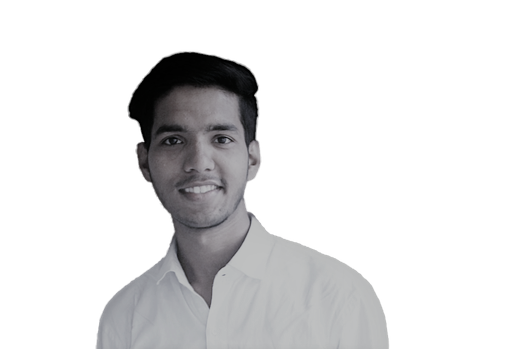
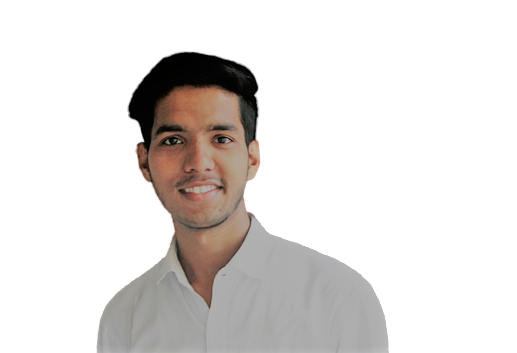
robin

diff --git a/index.html b/index.html
@@ -41,12 +41,14 @@
 </head>
 
 <body>
-	<div id="nav-wrapper">
+	<div id="nav-wrapper" >
 		<nav id="nav">
-		  <div class="nav left" id="leftt">
+		  <div class="nav left" id="leftt" style="position: relative;">
 			<span class="gradient skew"><h1 class="logo un-skew"><a href="index.html">Robin Singh</a></h1></span>
-			<!-- <button id="menu" class="btn-nav"><span class="fas fa-bars"></span></button> -->
+			<button id="menu" class="btn-nav" onclick="set()"><span class="fas fa-bars"></span></button>
+			
 		  </div>
+		  
 		  <div class="nav right" id="rightt">
 		
 			<a href="#fh5co-header" class="nav-link active"><span class="nav-link-span"><span class="u-nav">Home</span></span></a>
@@ -58,8 +60,16 @@
 			
 		</div>
 		</nav>
+		
 	</div>
-
+	<div id="navb" onclick="hide()">
+		<a href="">Home</a>
+		<a href="#fh5co-about">About</a>
+		<a href="#fh5co-resume">Resume</a>
+		<a href="#fh5co-skills">Skills</a>
+		<a href="#fh5co-blog">Projects</a>
+		<a href="#fh5co-started">Contact</a>
+	</div>
 
 
 	<div class="fh5co-loader" id="ripple"></div>
@@ -76,16 +86,7 @@
 				<div class="row">
 					
 					<div class="col-md-8 col-md-offset-2 text-center">
-						<!-- <div id="navb" style="border: 1px solid red">
-							<a href="">home</a>
-							<a href="#about">About</a>
-							<a href="#fh5co-blog">Projects</a>
-							<a href="#fh5co-started">Contact</a>
-							<a href="#fh5co-skills">Skills</a>
-							<a href="#educt">Education</a>
-							<a href="#fh5co-resume">Resume</a>
-							
-						</div> -->
+						
 
 					
 						<div class="display-t js-fullheight">
@@ -107,7 +108,7 @@
 									</p>
 								</div>
 								<div  class="profiler" >
-								<img style="width: 50%; height: 100%;" src="./Polish_20220911_153601291.png" alt=""></div>
+								<img style="width: 70%; height: 100%;" src="./20200312_121319_143-01_prev_ui.png" alt=""></div>
 
 								
 							</div>
@@ -292,7 +293,7 @@
 				<div class="row robin" >
 					<div class="col-md-4">
 						<div class="fh5co-blog animate-box">
-							<a href="#" class="blog-bg" style="background-image: url(SUGAR-Cosmetics-Logo.jpg);margin: auto;width: 90%;margin-top: -10vh;
+							<a href="https://stunning-biscochitos-96bb56.netlify.app/" target="_blank" class="blog-bg" style="background-image: url(SUGAR-Cosmetics-Logo.jpg);margin: auto;width: 90%;margin-top: -10vh;
 							height: 35vh; border: 1px solid black;background-repeat: no-repeat;
   background-position: center center;
   background-size: 100% 100%;" ></a>
@@ -313,7 +314,7 @@
 					</div>
 					<div class="col-md-4">
 						<div class="fh5co-blog animate-box">
-							<a href="#" class="blog-bg"
+							<a href="https://frolicking-moxie-feacd6.netlify.app/" target="_blank" class="blog-bg"
 								style="background-image: url(geekbuying-discount-code.png);background-repeat: no-repeat;
 								background-position: center center;margin: auto;
 								background-size: 100% 100%;width: 90%;margin-top: -10vh;object-fit: cover;
@@ -334,7 +335,7 @@
 					</div>
 					<div class="col-md-4">
 						<div class="fh5co-blog animate-box" >
-							<a href="#" class="blog-bg"
+							<a href="https://bufferr.netlify.app/" target="_blank" class="blog-bg"
 								style="background-image: url(buffer-inc-vector-logo.png);background-repeat: no-repeat;
 								background-position: center center;margin: auto;
 								background-size: 100% 100%;width: 90%;margin-top: -10vh;
@@ -503,6 +504,14 @@ function typeWriter1() {
   }
   
 }
+function set(){
+	console.log("robin")
+	document.getElementById("navb").style.display = document.getElementById("navb").style.display == "block"?"none":"block"
+}
+function hide(){
+	document.querySelector("#navb").style.display="none"
+}
+
 
 $('ripple').ripples({
 	resolution:512,

diff --git a/style.css b/style.css
@@ -283,3 +283,26 @@ a:hover {
     padding-right: 5em;
   }
 }
+#navb{
+  width: 100vw;
+  height: 100vh !important;;
+  position: fixed;
+  top: 11%;
+  left:0;
+  z-index: 20000000;
+  background: black;
+  background: linear-gradient(45deg, black, grey);
+  display: none;
+  text-align: center;
+}
+#navb >a{
+  display: block;
+  color: white;
+  font-size: 28px;
+}
+#navb >a:hover{
+  background: white;
+  border-radius: 10px;
+  padding: 3px 10px;
+  color:black;
+}
